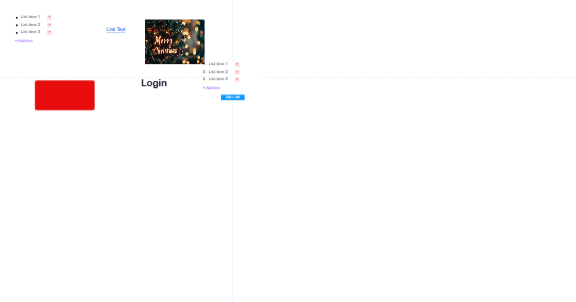
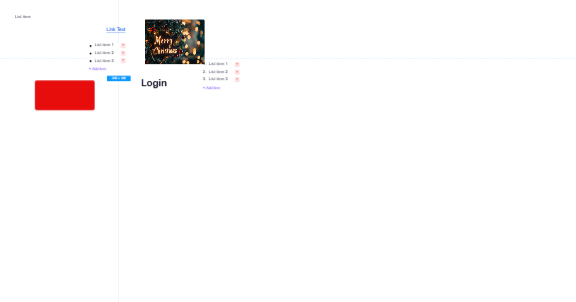
asd

diff --git a/src/pages/login/login.css b/src/pages/login/login.css
@@ -139,8 +139,8 @@ a {
 
 .el-8c7682470a1f {
   position: absolute;
-  left: 50px;
-  top: 50px;
+  left: 296px;
+  top: 144px;
   margin: 0;
   padding-left: 20px;
   font-size: 14px;
@@ -167,4 +167,13 @@ a {
 
 .el-907ac9d4e576 li {
   margin-bottom: 4px;
+}
+
+.el-f573a63eb8b8 {
+  position: absolute;
+  left: 50px;
+  top: 50px;
+  margin: 0px 0px 0px 0px;
+  font-size: 14px;
+  color: #1a1a2e;
 }

diff --git a/src/pages/login/login.board.tsx b/src/pages/login/login.board.tsx
@@ -18,6 +18,7 @@ const Login = () => {
         <li>List item 2</li>
         <li>List item 3</li>
       </ol>
+      <li className="el-f573a63eb8b8">List item</li>
     </div>
   );
 };
